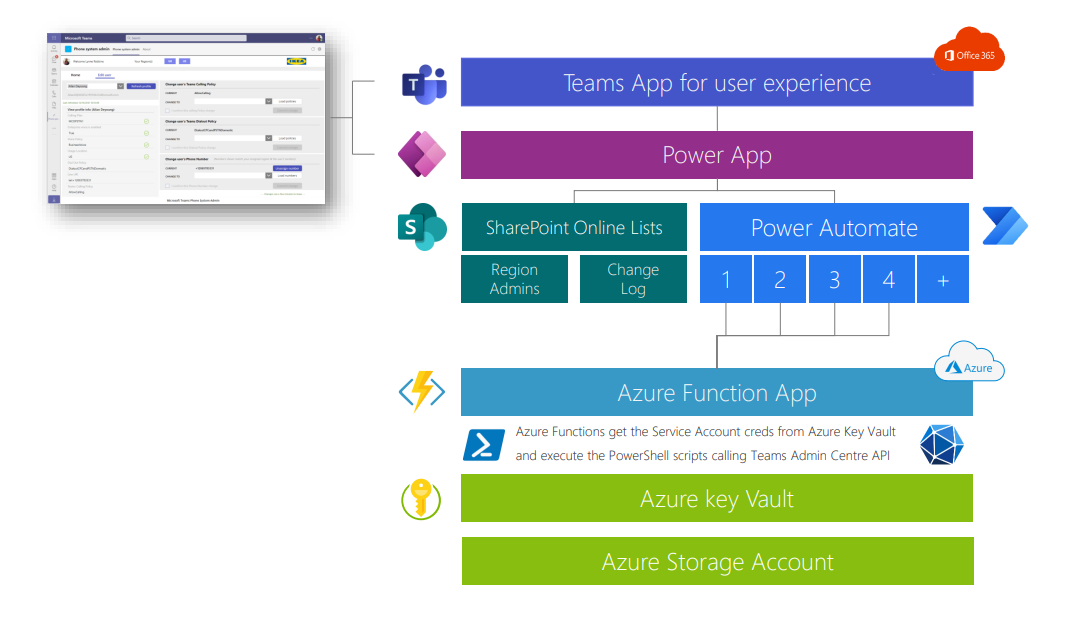
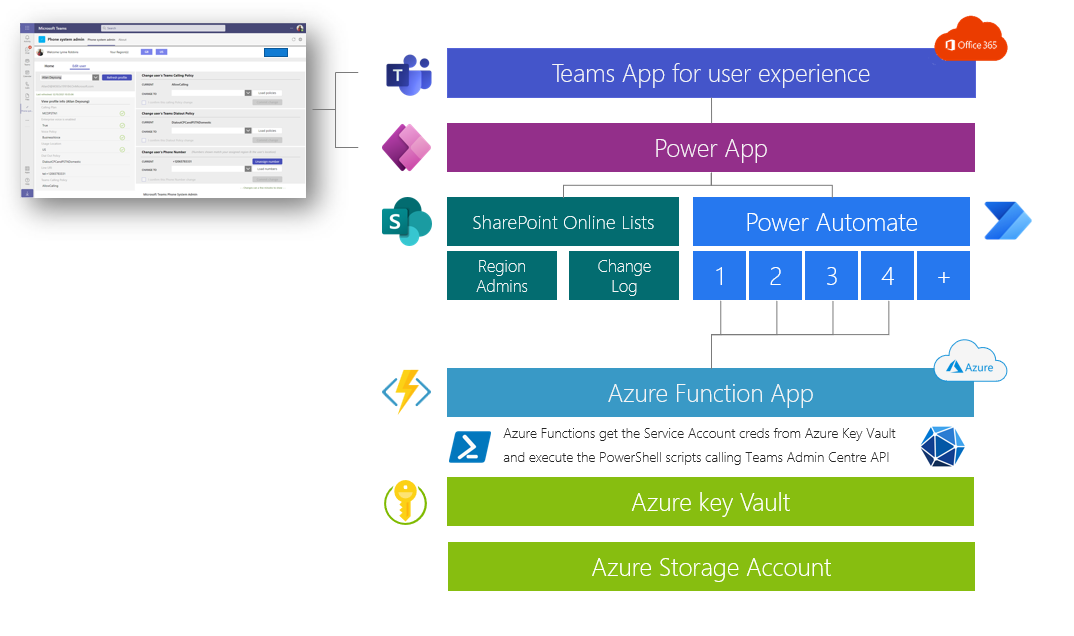
Update screenshots

Changed region(s): [[0.0, 0.0304, 0.9851, 0.9409]]

diff --git a/README.md b/README.md
@@ -14,7 +14,7 @@ As of today, this application supports the following scenarios:
 
 The architecture of this solution can be adapted to support other scenarios taht require delegated admin management of Teams phone system or any other feature accessible via PowerShell cmdlet or even MS Graph API. 
 
-Here is a screenshot of the application
+Here is the application running in Microsoft Teams
 
 <p align="center">
     <img src="./Media/Teams-Phone-System-Admin.png" alt="Microsoft Teams Phone System Admin screenshot" width="600"/>
